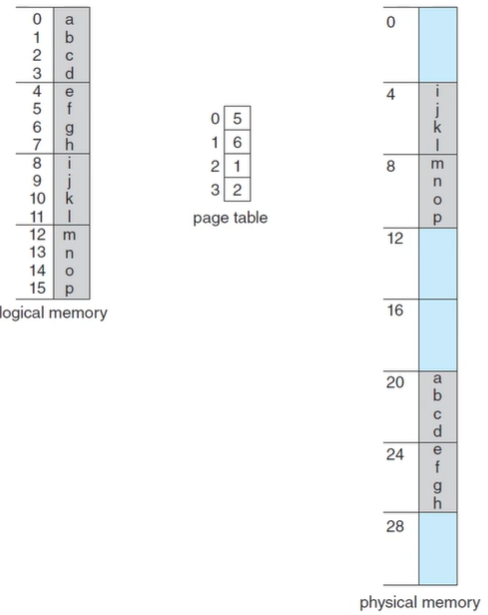
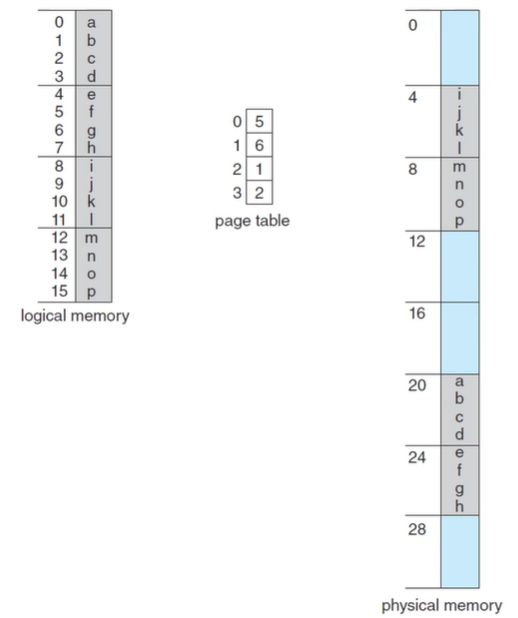
modify 2021-06-22-OS-Paging&Swapping

Changed region(s): [[0.7377, 0.0, 0.9836, 1.0], [0.0, 0.0, 0.2459, 0.5252], [0.3996, 0.1545, 0.5533, 0.3707]]

diff --git a/_posts/2021-06-22-OS-Paging&Swapping.md b/_posts/2021-06-22-OS-Paging&Swapping.md
@@ -23,7 +23,9 @@ tags: [OS]
 CPU에서 나오는 모든 주소는 **페이지 번호(p)**와 페이지 변위(d)로 나누어진다. 페이지 번호는 **페이지 테이블(page table)**에 접근할 때 사용되며 페이지 테이블은 주 메모리에서 각 페이지가 점유하는 주소를 갖고 있다. 이 페이지의 주소에 페이지 변위를 더하면 원하는 물리 주소를 구할 수 있다.
 
 ![](https://taeho0304.github.io/assets/img/OS/Paging/paging_ex.png)
-4B vpdlwlfmf rkwls 32B 메모리의 페이징 예
+4B 페이지를 가진 32B 메모리의 페이징 예
+
+페이징 기법 사용 시, 모든 놀고 있는 프레임은 프로세스에게 할당될 수 있기 때문에 외부 단편화가 발생하지 않는다. 그러나 메모리 할당은 항상 프레임의 정수 배로 할당되기 때문에 내부 단편화가 발생한다. 만약 프로세스가 페이지 경계와 일치하지 않는 크기의 메모리를 요구한다면, 마지막 프레임은 전부 할당되지 않는다.
 
 #### 페이지 테이블 만들기
 
